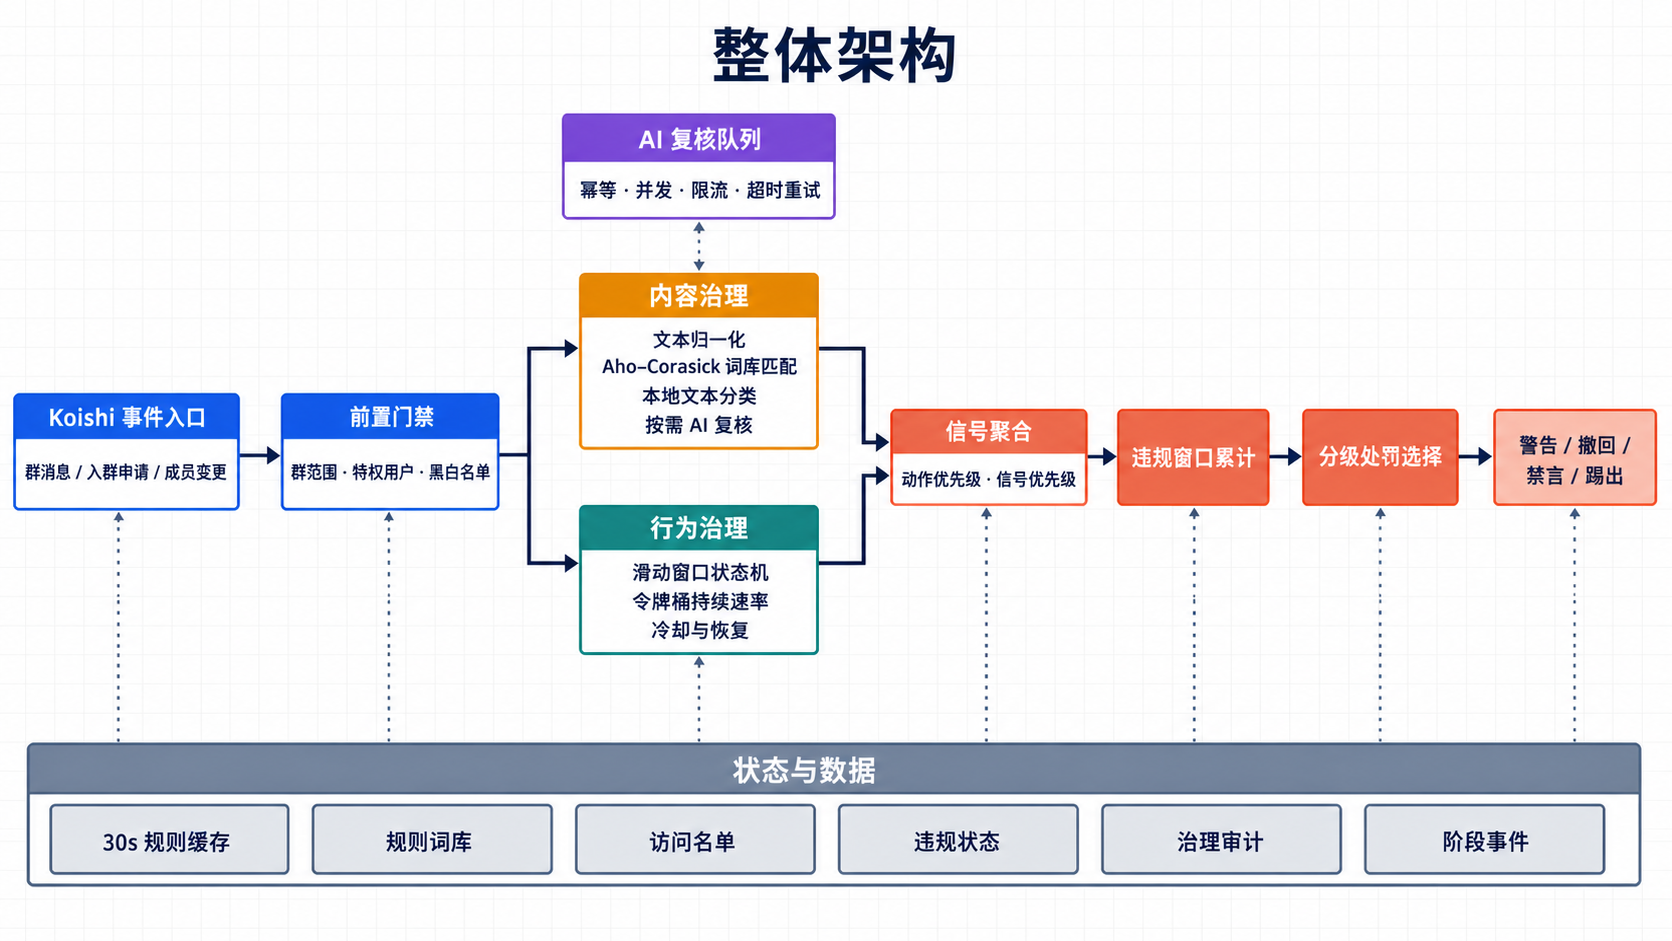
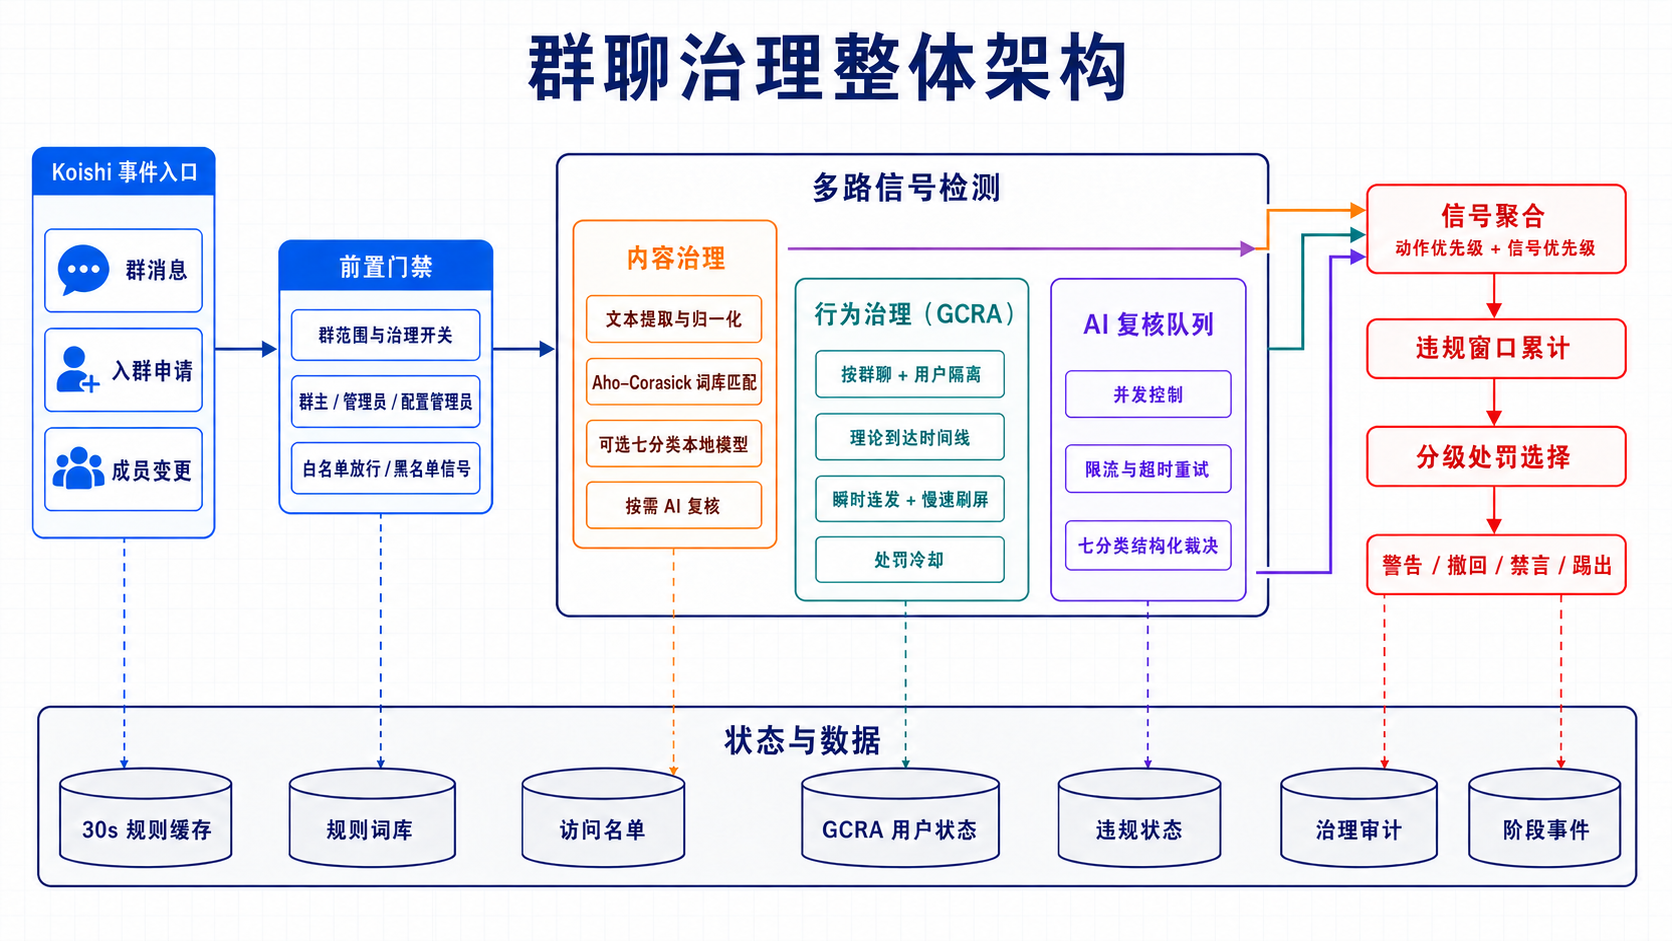
docs: 更新 GCRA 整体架构图
- 使用新架构图展示内容治理、GCRA 行为治理与 AI 复核链路
- 为 README 图片地址增加版本缓存标识

diff --git a/readme.md b/readme.md
@@ -242,7 +242,7 @@ plugins:
 
 ### 整体架构
 
-![整体架构](https://raw.githubusercontent.com/codingayice/koishi-plugin-group-assistant/master/docs/architecture.png)
+![群聊治理整体架构（GCRA）](https://raw.githubusercontent.com/codingayice/koishi-plugin-group-assistant/master/docs/architecture.png?v=2.0.0)
 
 插件在 Koishi 中同时注册事件处理器和消息中间件。成员事件负责入群审核、欢迎与退群提示；群消息进入治理中间件后，先经过范围和权限门禁，再并行产生内容信号、行为信号与名单信号。需要语义判断的内容可以继续调用可选的 `groupAssistantModel` 服务并进入异步 AI 复核，确定性信号则进入统一裁决链。
 
